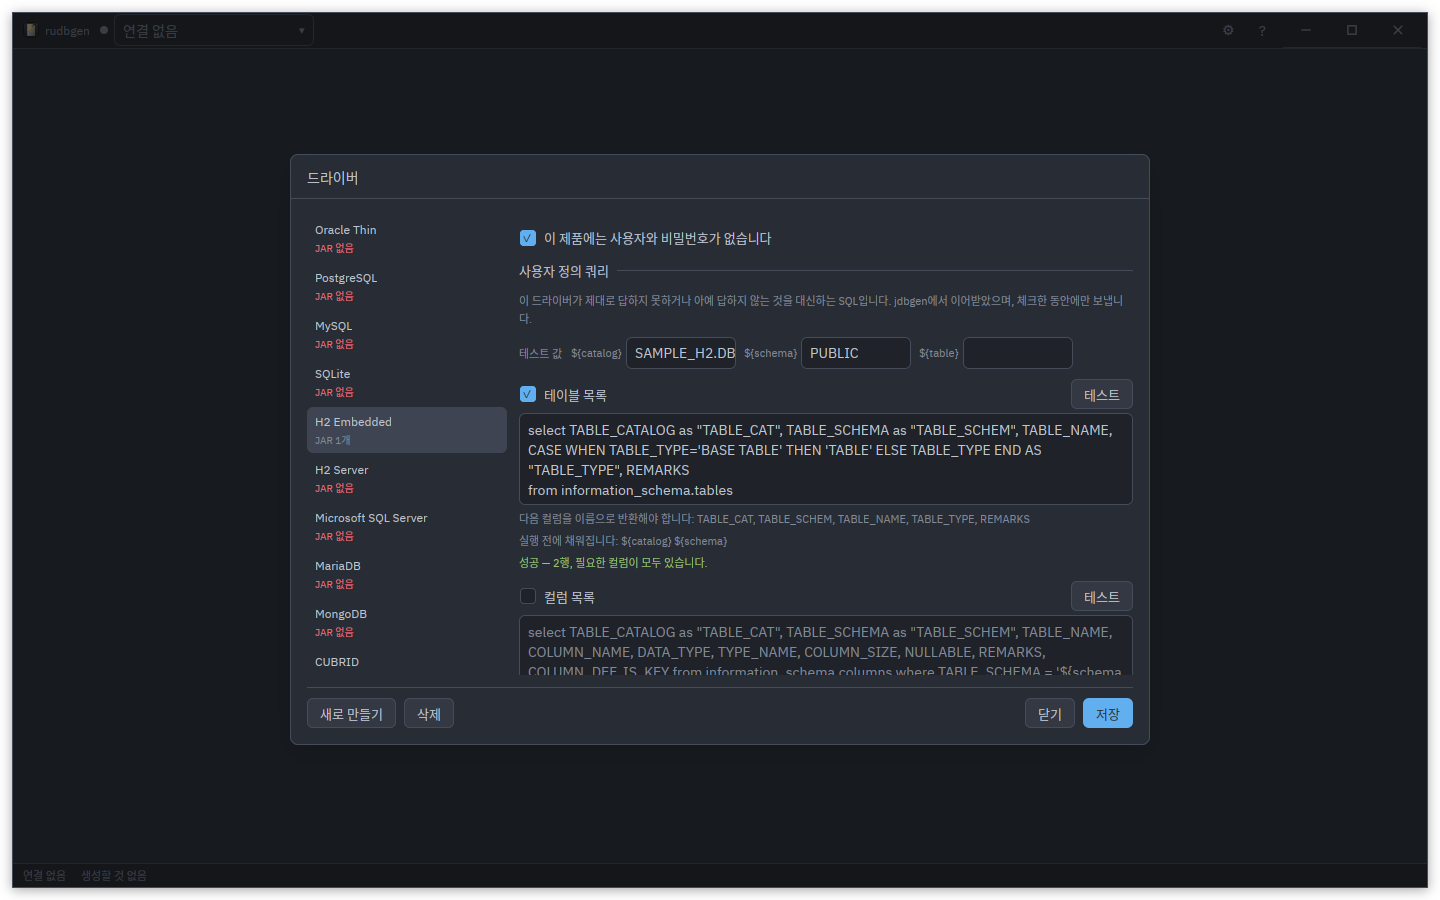
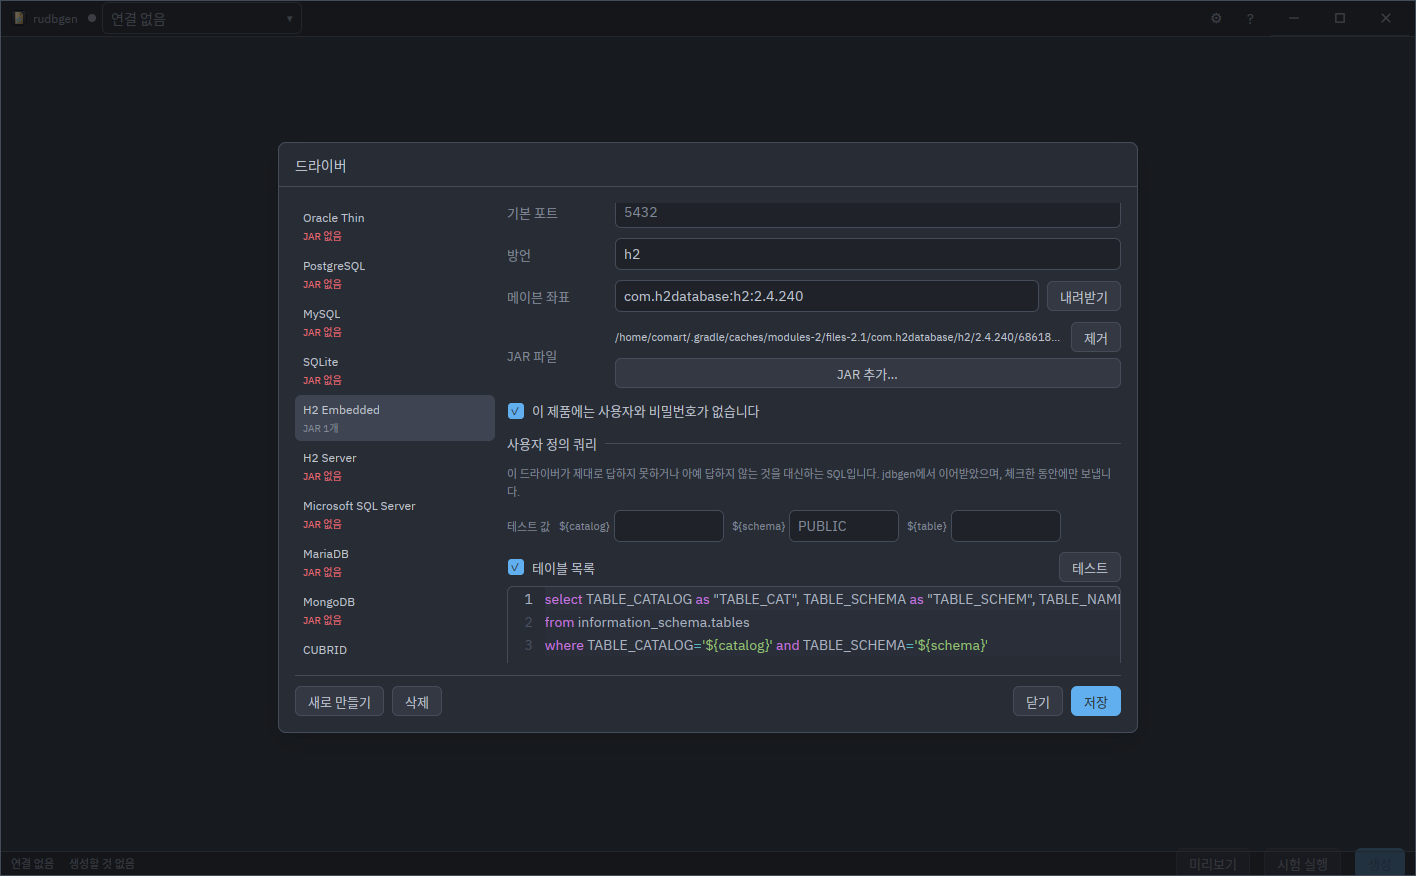
Driver editor: the custom queries are SQL editors
EditorView with the SQL highlighter in place of the multiline TextInput,
read-only and dimmed while a row is unticked.

Changed region(s): [[0.1864, 0.2158, 0.8079, 0.8322], [0.0, 0.0, 1.0, 1.0], [0.1864, 0.1541, 0.2486, 0.2158]]

diff --git a/crates/rudbgen-app/src/driver_manager.rs b/crates/rudbgen-app/src/driver_manager.rs
@@ -55,6 +55,7 @@
 //! one read rather than at the end of the transfer.
 
 use std::path::PathBuf;
+use std::sync::Arc;
 
 use futures::StreamExt;
 use futures::channel::mpsc;
@@ -64,6 +65,7 @@ use gpui::{
     div, prelude::*, px,
 };
 use rudbgen_core::{ConnectionProfile, CustomQueryKind, DriverDef, DriverStore, drivers_dir};
+use rudbgen_editor::{EditorView, SqlHighlighter};
 use rudbgen_jdbc::{BridgeErrorKind, DriverProbe, Error as JdbcError, StatementSpec};
 use rudbgen_ui::{
     Button, ButtonVariant, Checkbox, DraggedThumb, Scrollbar, ScrollbarAxis, ScrollbarState,
@@ -86,6 +88,12 @@ const LIST_WIDTH: f32 = 200.;
 
 /// Height at which the two columns start scrolling.
 const BODY_MAX_HEIGHT: f32 = 460.;
+
+/// Height of each custom-query SQL editor: about six lines, enough to read a
+/// `select` with its `where` line without the field becoming the dialog.
+/// Anything longer scrolls inside it, the way the editor already does
+/// everywhere else it is hosted.
+const QUERY_EDITOR_HEIGHT: f32 = 132.;
 
 /// Tab order of the manager's controls.
 mod tab {
@@ -453,7 +461,13 @@ pub struct DriverManager {
     /// Maven coordinate, `group:artifact:version`.
     maven_input: Entity<TextInput>,
     /// The four custom-query statements, in [`CustomQueryKind::ALL`] order.
-    query_inputs: [Entity<TextInput>; 4],
+    ///
+    /// SQL-highlighted rather than a plain field, since a driver's table list
+    /// or comment query is exactly the kind of `select` a colour hint on
+    /// `${schema}` and its keywords is worth having. Read-only whenever the
+    /// row's tick is off: a statement that would not run is not a statement
+    /// to be typing over by mistake.
+    query_editors: [Entity<EditorView>; 4],
     /// Catalogue the test substitutes for `${catalog}`; blank leaves the hole.
     test_catalog_input: Entity<TextInput>,
     /// Schema the test substitutes for `${schema}`.
@@ -516,18 +530,11 @@ impl DriverManager {
             port_input: field(cx, "5432".into(), tab::PORT),
             dialect_input: field(cx, "postgres".into(), tab::DIALECT),
             maven_input: field(cx, "org.postgresql:postgresql:42.7.4".into(), tab::MAVEN),
-            // Four rows tall: enough to read a `select` with its `where` line
-            // without the field becoming the dialog. Anything longer scrolls
-            // inside it.
-            query_inputs: std::array::from_fn(|index| {
-                let placeholder = query_placeholder(CustomQueryKind::ALL[index]);
-                let tab_index = tab::QUERY + index as isize * tab::QUERY_STRIDE + 1;
-                cx.new(move |cx| {
-                    TextInput::new(cx)
-                        .multiline(4)
-                        .placeholder(placeholder)
-                        .tab_index(tab_index)
-                })
+            // `fill_form`, called below, seeds the text and the read-only
+            // state from the selected driver; nothing here depends on which
+            // one that is.
+            query_editors: std::array::from_fn(|_| {
+                cx.new(|cx| EditorView::new(cx).highlighter(Arc::new(SqlHighlighter)))
             }),
             test_catalog_input: field(cx, "".into(), tab::TEST_CATALOG),
             test_schema_input: field(cx, "PUBLIC".into(), tab::TEST_SCHEMA),
@@ -562,8 +569,11 @@ impl DriverManager {
         set_text(&self.dialect_input, driver.dialect, cx);
         set_text(&self.maven_input, driver.maven.unwrap_or_default(), cx);
         for (index, kind) in CustomQueryKind::ALL.into_iter().enumerate() {
-            let sql = driver.custom_queries.get(kind).sql.clone();
-            set_text(&self.query_inputs[index], sql, cx);
+            let query = driver.custom_queries.get(kind);
+            set_editor_text(&self.query_editors[index], &query.sql, cx);
+            self.query_editors[index].update(cx, |editor, cx| {
+                editor.set_read_only(!query.enabled, cx);
+            });
         }
         // A result belongs to the statement it was produced from, and the
         // statement has just been replaced.
@@ -605,7 +615,7 @@ impl DriverManager {
                 // turns a query off is switching it off, not throwing it away.
                 let mut queries = existing.custom_queries.clone();
                 for (index, kind) in CustomQueryKind::ALL.into_iter().enumerate() {
-                    queries.get_mut(kind).sql = text(&self.query_inputs[index], cx);
+                    queries.get_mut(kind).sql = editor_text(&self.query_editors[index], cx);
                 }
                 queries
             },
@@ -628,6 +638,8 @@ impl DriverManager {
         };
         driver.custom_queries.get_mut(kind).enabled = enabled;
         self.store.upsert(driver);
+        let index = kind_index(kind);
+        self.query_editors[index].update(cx, |editor, cx| editor.set_read_only(!enabled, cx));
         cx.notify();
     }
 
@@ -1717,6 +1729,30 @@ impl DriverManager {
                 .child(message)
         });
 
+        // The example is what the field used to show as placeholder text; an
+        // editor has no such thing, so an empty statement shows it as a hint
+        // underneath instead. It disappears the moment there is real SQL to
+        // read, exactly as a placeholder would have.
+        let example = editor_text(&self.query_editors[index], cx)
+            .is_empty()
+            .then(|| hint(query_placeholder(kind), cx));
+
+        let mono = app_settings::monospace_family(cx);
+        let font_size = app_settings::effective(cx).editor_font_size;
+        let editor = div()
+            .flex()
+            .flex_col()
+            .h(px(QUERY_EDITOR_HEIGHT))
+            .min_h_0()
+            .rounded_md()
+            .overflow_hidden()
+            .border_1()
+            .border_color(chrome.border)
+            .font_family(mono)
+            .text_size(px(font_size))
+            .when(!enabled, |el| el.opacity(0.6))
+            .child(self.query_editors[index].clone());
+
         div()
             .flex()
             .flex_col()
@@ -1757,7 +1793,8 @@ impl DriverManager {
                         })
                     }),
             )
-            .child(self.query_inputs[index].clone())
+            .child(editor)
+            .children(example)
             .child(hint(contract, cx))
             .child(hint(placeholders, cx))
             .children(result)
@@ -2087,6 +2124,16 @@ fn set_text(input: &Entity<TextInput>, value: impl Into<SharedString>, cx: &mut 
     input.update(cx, |input, cx| input.set_content(value, cx));
 }
 
+/// Trimmed content of a custom-query editor.
+fn editor_text(editor: &Entity<EditorView>, cx: &App) -> String {
+    editor.read(cx).text().trim().to_owned()
+}
+
+/// Replaces the contents of a custom-query editor.
+fn set_editor_text(editor: &Entity<EditorView>, value: &str, cx: &mut App) {
+    editor.update(cx, |editor, cx| editor.set_text(value, cx));
+}
+
 #[cfg(test)]
 mod tests {
     use super::*;
@@ -2115,7 +2162,7 @@ mod tests {
 
         cx.update(|cx| {
             manager.update(cx, |manager, cx| {
-                set_text(&manager.query_inputs[index], query, cx);
+                set_editor_text(&manager.query_editors[index], query, cx);
                 manager.toggle_query(CustomQueryKind::TableComments, true, cx);
             });
         });
@@ -2149,10 +2196,7 @@ mod tests {
             });
         });
         cx.update(|cx| {
-            assert_eq!(
-                manager.read(cx).query_inputs[index].read(cx).content(),
-                query
-            );
+            assert_eq!(manager.read(cx).query_editors[index].read(cx).text(), query);
         });
     }
 
@@ -2166,10 +2210,7 @@ mod tests {
         let manager = manager_over(Vec::new(), cx);
         let index = kind_index(CustomQueryKind::Tables);
         cx.update(|cx| {
-            let sql = manager.read(cx).query_inputs[index]
-                .read(cx)
-                .content()
-                .to_string();
+            let sql = manager.read(cx).query_editors[index].read(cx).text();
             assert!(sql.contains("information_schema.tables"), "{sql}");
             assert!(
                 manager
@@ -2180,6 +2221,32 @@ mod tests {
                     .tables
                     .enabled
             );
+        });
+    }
+
+    /// Pressing **Test** reads whatever is in the editor at that moment, not
+    /// whatever `drivers.json` last held.
+    ///
+    /// `test_query` calls `collect` before it looks at the statement, the same
+    /// way `save` does; this is the guard that the wiring from editor to
+    /// draft actually runs on that path too, and not only on save.
+    #[gpui::test]
+    fn the_test_button_reads_the_editors_current_text(cx: &mut gpui::TestAppContext) {
+        let manager = manager_over(Vec::new(), cx);
+        let index = kind_index(CustomQueryKind::Tables);
+        let sql = "select 1 as TABLE_NAME from dual";
+
+        cx.update(|cx| {
+            manager.update(cx, |manager, cx| {
+                set_editor_text(&manager.query_editors[index], sql, cx);
+                // No session is wired up in this test; the button still has
+                // to read the field before it can say so.
+                manager.test_query(CustomQueryKind::Tables, cx);
+            });
+        });
+        cx.update(|cx| {
+            let driver = manager.read(cx).current().expect("H2 is selected");
+            assert_eq!(driver.custom_queries.tables.sql, sql);
         });
     }
 

diff --git a/docs/status.md b/docs/status.md
@@ -291,3 +291,7 @@ Two things a first tag will want that no milestone owns:
   strip of whatever was behind the window composites into the edge. `welcome.png`
   was re-taken with M5: the *Import from jdbgen…* button it used to show greyed
   is live now, and it appears only when there is a configuration to import from.
+  `driver-custom-queries.png` was re-taken and cropped the same way once the
+  custom-query fields became `rudbgen-editor` `EditorView`s with SQL
+  highlighting instead of plain `TextInput` fields; `connection-dialog.png` is
+  still the old uncropped capture and is owed the same pass.
